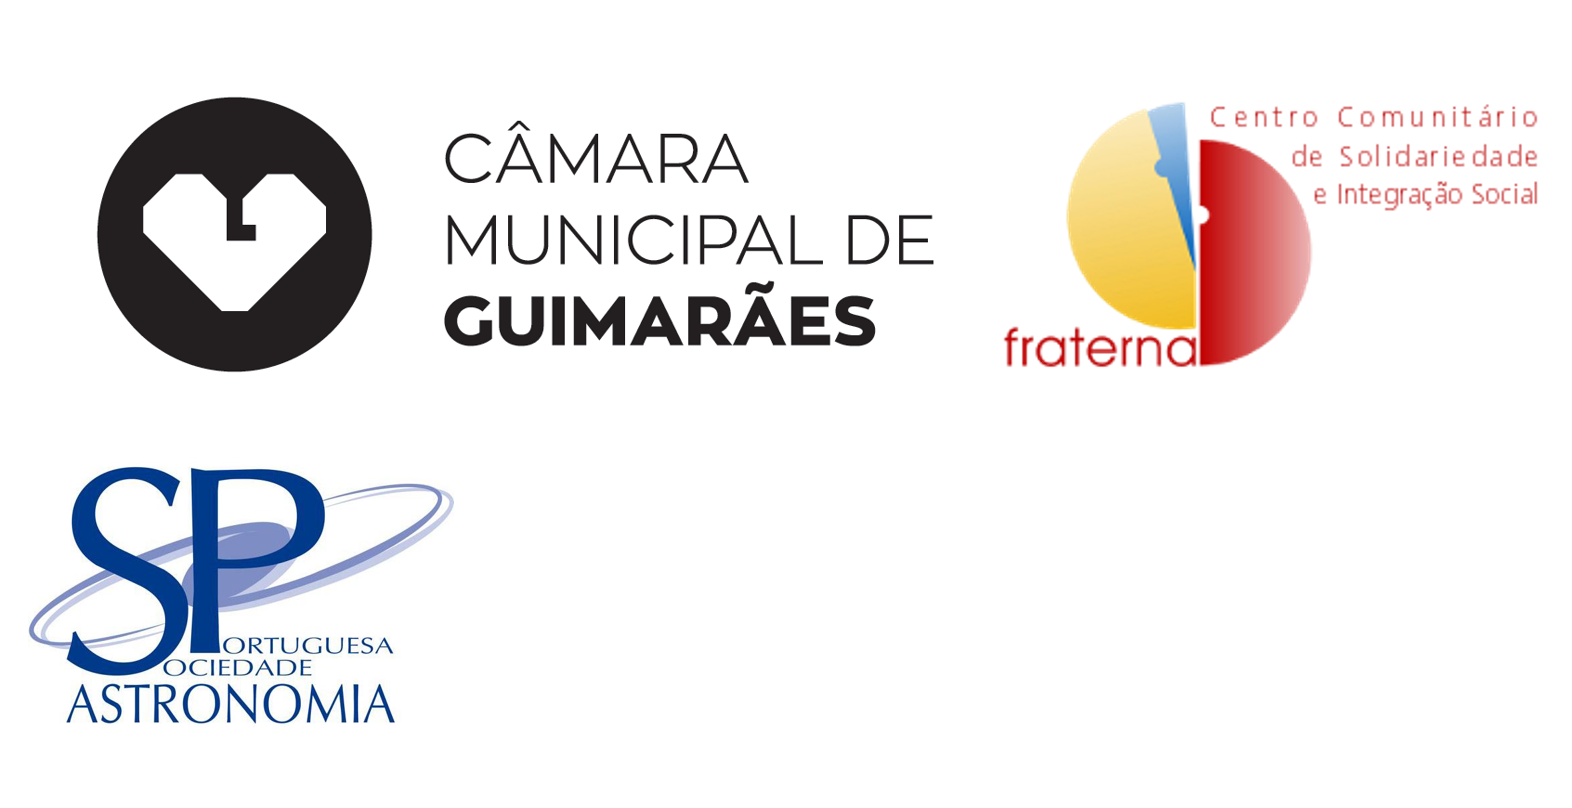
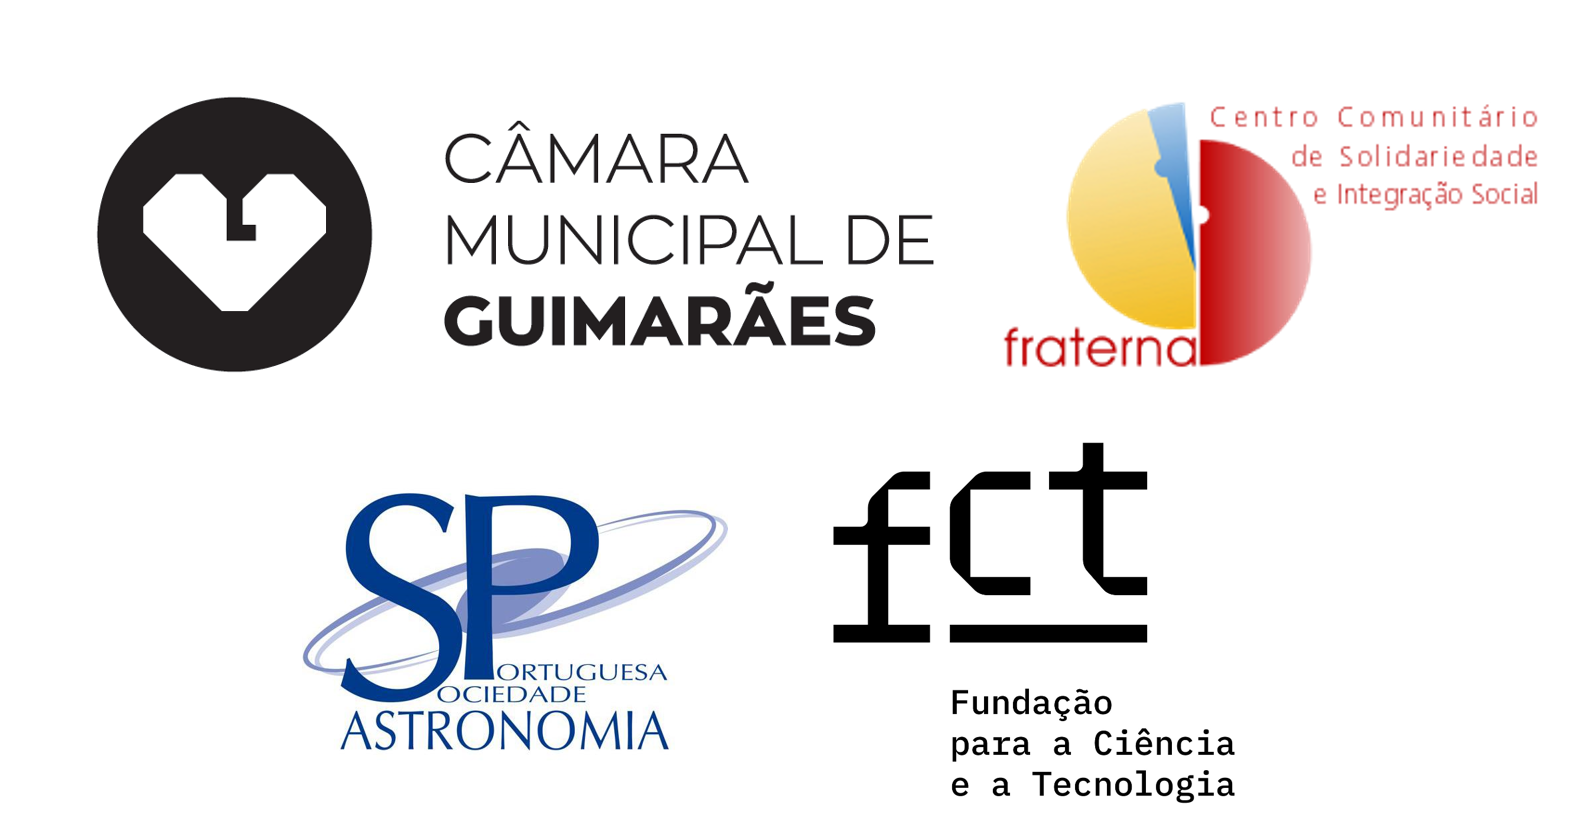
update sponsors; minor fix on guide

diff --git a/guide.md b/guide.md
@@ -52,6 +52,8 @@ You can find below a non-complete list of restaurants around the conference venu
 - **Recanto 93**: R. Rainha Dona Maria II (8 min)
 - **Marco Bellini è que sabe!**: R. de Donães (8 min)
 
+<br>
+
 <p align="center">
   <a href="https://maps.app.goo.gl/JJcns1ZR7DjMH9JcA">
     <img src="assets/images/lunch_suggestions.png" alt="Lunch suggestions" style="width: 80%; height: auto;">
